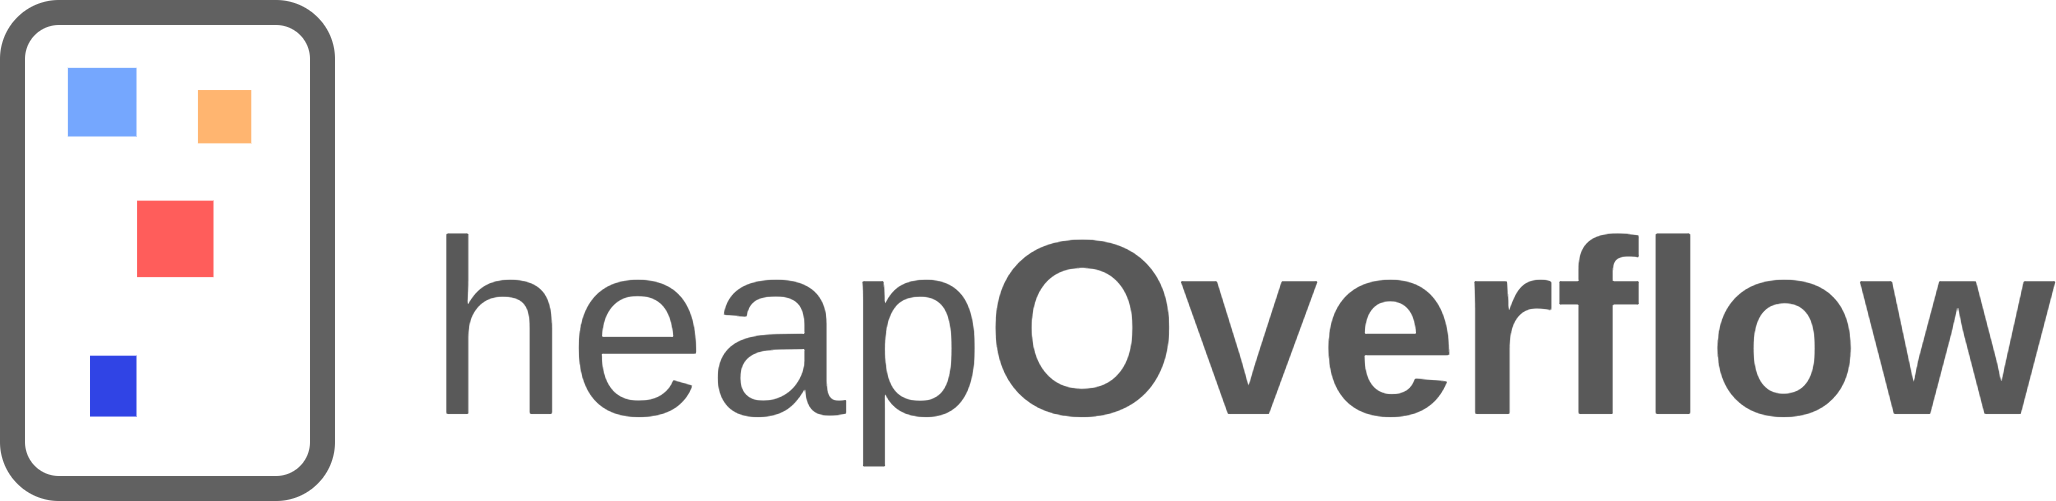
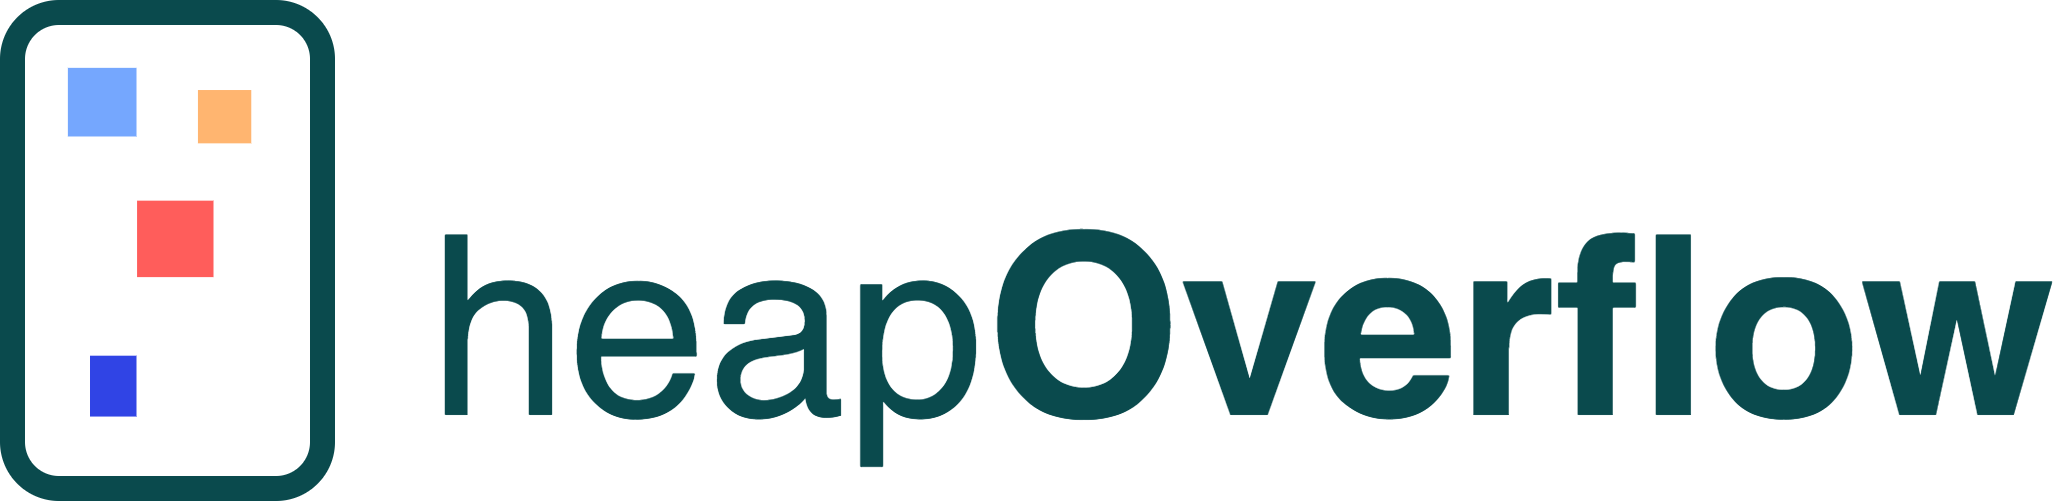
|#11|Sravani/Sid|revamped page header

Changed region(s): [[0.2179, 0.4491, 1.0, 0.9281], [0.0, 0.0, 0.1868, 1.0]]

diff --git a/public/css/header.css b/public/css/header.css
@@ -3,7 +3,7 @@
 }
 
 body {
-  margin: 0 5px;
+  margin: 0 2px;
 }
 
 a {
@@ -12,14 +12,14 @@ a {
 
 /* Style for header */
 .header {
-  height: 100px;
-  background-image: linear-gradient(rgb(255, 255, 255), rgb(240, 240, 240));
+  height: 80px;
   display: flex;
   align-items: center;
   position: sticky;
   top: 0px;
   z-index: 100;
   padding: 0 2vw 0 0;
+  background: #a6e3e9;
 }
 
 /* Style for Icon */
@@ -36,7 +36,7 @@ a {
 
 #icon:hover,
 #icon:focus {
-  filter: drop-shadow(4px 4px 3px rgb(138, 138, 138));
+  filter: drop-shadow(4px 4px 2px rgba(66, 66, 66, 0.3));
 }
 /* style for icon ends */
 
@@ -46,15 +46,15 @@ a {
   height: 42%;
   display: flex;
   align-items: center;
-  background-color: white;
+  background-color: #e3fdfd;
   border-radius: 5px;
   flex-grow: 1;
   margin: 0 5vw;
-  border: 1px solid rgb(202, 202, 202);
+  border: 1px solid #a6e3e9;
 }
 
 #searchBar:focus-within {
-  border: 1px solid rgb(161, 161, 161);
+  border: 1px solid #71c9ce;
 }
 
 #searchBar > form{
@@ -67,11 +67,15 @@ a {
   border: hidden;
   padding-left: 5px;
   outline: none;
-  font-size: 22px;
+  background-color: #e3fdfd;
+  color: #0a4a4d;
+  font-size: 19px;
 }
 
 #searchBar input::placeholder {
-  color: rgb(202, 202, 202);
+  font-weight: 100;
+  color: #71c9ce;
+  font-size: 18px;
 }
 
 #searchBar > img {
@@ -83,17 +87,16 @@ a {
 
 
 .headerButton {
-  margin: 0 0.5vw;
-  height: 27px;
-  font-size: 24px;
+  font-weight: 100;
+  margin: 0 2px;
+  height: 20px;
+  font-size: 18px;
   display: flex;
   align-items: center;
   outline: none;
   cursor: pointer;
-  border-radius: 3px;
   padding: 8px 10px;
-  border: 1px solid rgb(185, 185, 185);
-  color: rgb(61, 61, 61);
+  color: #0a4a4d;
   flex-shrink: 0;
 }
 
@@ -105,8 +108,7 @@ a {
 
 .headerButton:hover,
 .headerButton:focus {
-  background-color: rgb(228, 228, 228);
+  background-color: #8fdbdf;
   color: black;
-  border: 1px solid rgb(107, 107, 107);
 }
 /* styles for headerActions ends */
